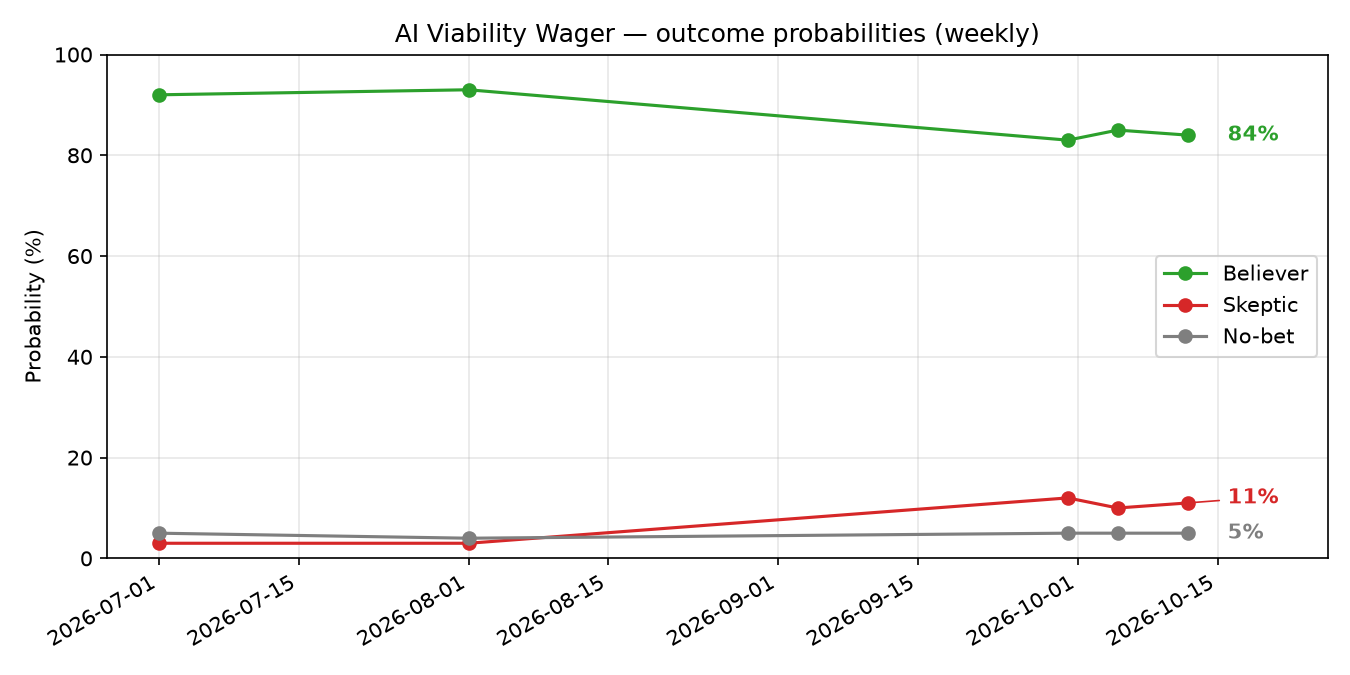
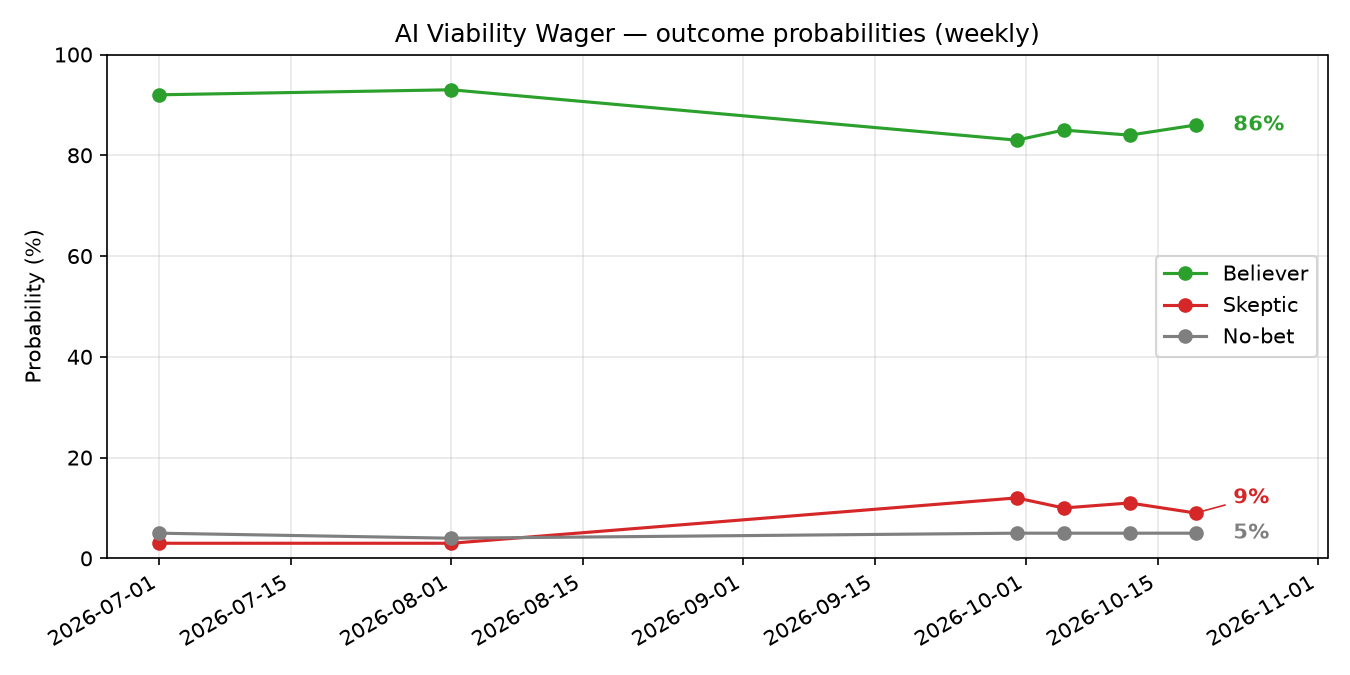
AI Viability Wager: weekly datapoint 2026-10-19

diff --git a/ai-viability-wager.md b/ai-viability-wager.md
@@ -25,6 +25,12 @@ title: AI Viability Wager
 
 Newest first.
 
+### Oct 19, 2026
+
+- **Believer**: 86% &nbsp;&nbsp; **Skeptic**: 9% &nbsp;&nbsp; **No‑bet**: 5%
+- Anthropic told investors Q3 revenue rose 45% to $16.8B and that it was profitable on an adjusted basis (Reuters, Oct 14); it plans to file publicly on Oct 26 for a mid-November IPO (IFR).
+- OpenAI's ~$30B raise at ~$1.4T was still in talks with no term sheet; PitchBook put fair value near $1T as losses keep growing.
+
 ### Oct 12, 2026
 
 - **Believer**: 84% &nbsp;&nbsp; **Skeptic**: 11% &nbsp;&nbsp; **No‑bet**: 5%
